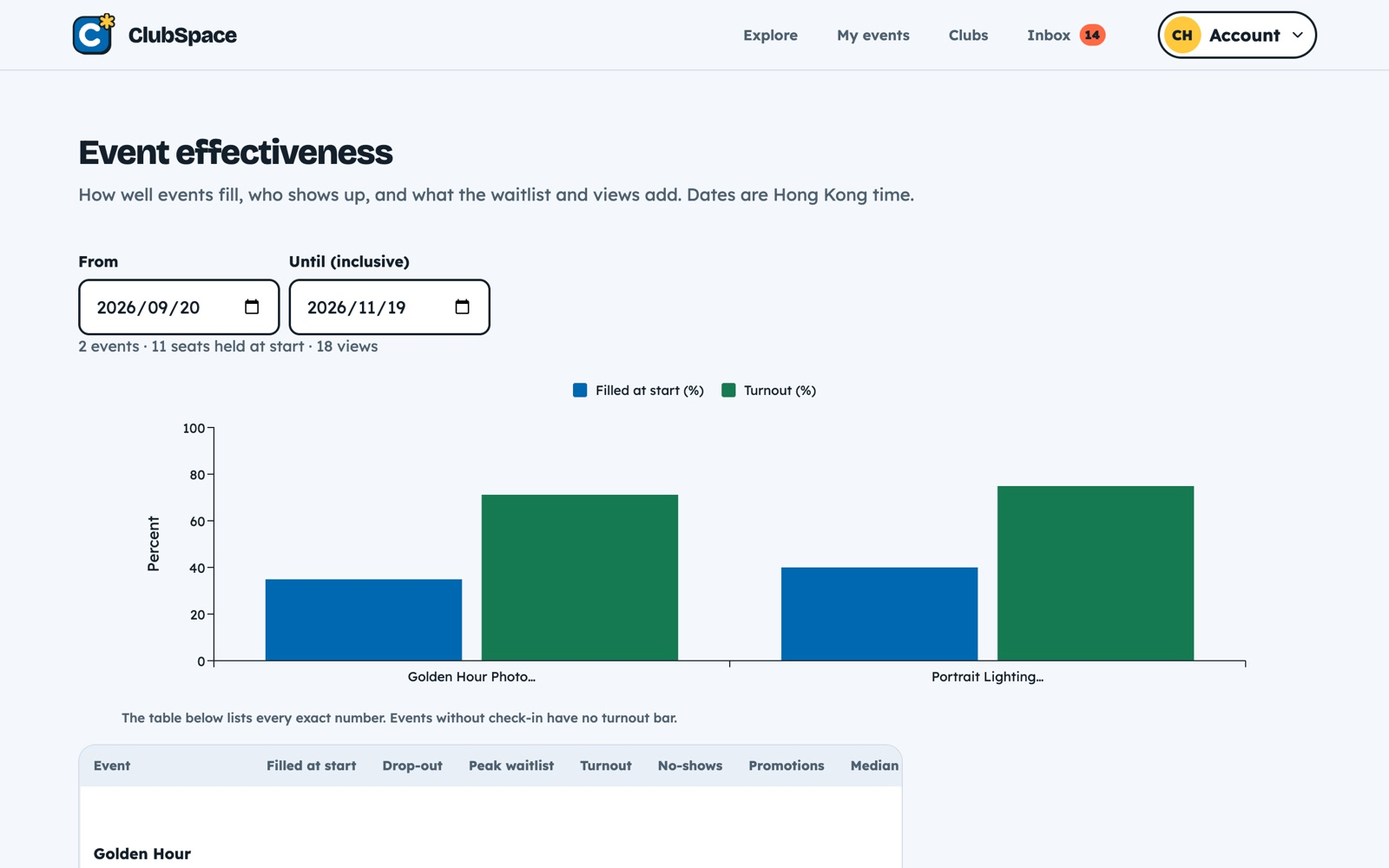
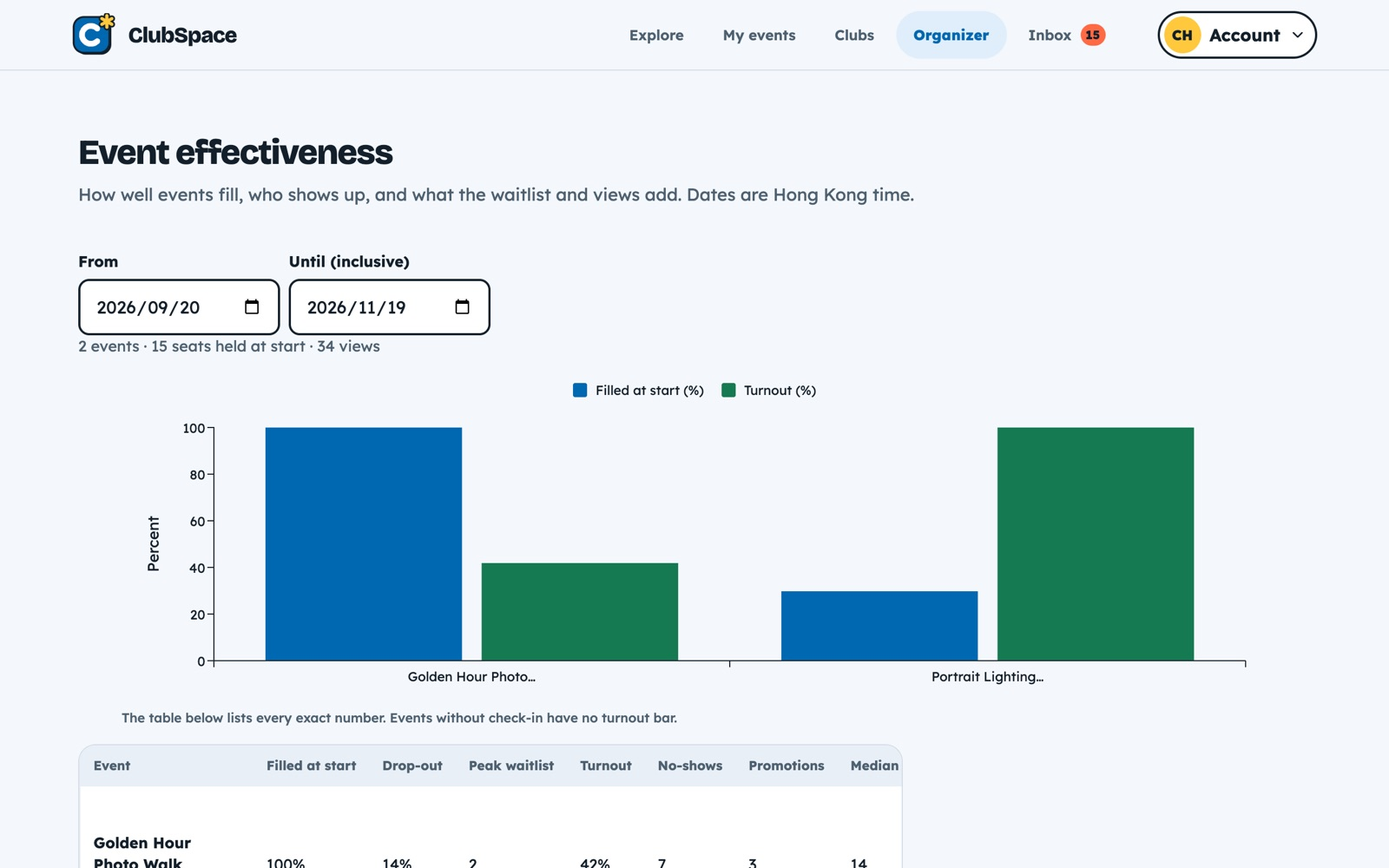
docs: update the final documentation for the latest features
Cover the six continuous slots (06:00-21:00), the venue schedule, venues
admins holding no club role, club icons and photos, committee removals with
president sign-off, join and quit activity, event page visits, and migrations
up to 023 (27 tables). Retake the screenshots from the current seed and add
the ER diagram's member_removal_requests table.

diff --git a/docs/final-report/final-documentation.html b/docs/final-report/final-documentation.html
@@ -115,7 +115,7 @@
     <li><span class="n">2</span>Feature list<span class="d">must-have, bonus and extra features; course requirements</span></li>
     <li><span class="n">3</span>Team task allocation<span class="d">who built what</span></li>
     <li><span class="n">4</span>System architecture<span class="d">containers, backend layers, design decisions</span></li>
-    <li><span class="n">5</span>Database design and ER diagram<span class="d">26 MySQL tables, keys, integrity rules</span></li>
+    <li><span class="n">5</span>Database design and ER diagram<span class="d">27 MySQL tables, keys, integrity rules</span></li>
     <li><span class="n">6</span>API documentation<span class="d">REST conventions, status codes, all endpoints</span></li>
     <li><span class="n">7</span>Key workflows and business logic<span class="d">lifecycle, waitlist, concurrency, real-time</span></li>
     <li><span class="n">8</span>User interface<span class="d">screenshots of the deployed app</span></li>
@@ -139,8 +139,8 @@
   <h3>Target users</h3>
   <div class="grid2" style="grid-template-columns:1fr 1fr 1fr">
     <div class="card"><h4>Students</h4><p>Discover events across clubs, see eligibility and remaining places, register or wait-list, check in, and get reminders.</p></div>
-    <div class="card"><h4>Club committee and president</h4><p>Request venues, draft and manage events, accept join requests, mark attendance and read reports. The president manages roles, signs off venue requests and publications, can hand over the presidency, and can undo club actions.</p></div>
-    <div class="card"><h4>Venue administrators</h4><p>Review pending venue requests across clubs. Availability is re-checked when they decide, and they cannot decide a request for a club they serve on.</p></div>
+    <div class="card"><h4>Club committee and president</h4><p>Request venues, draft and manage events, accept join requests, mark attendance and read reports. The president manages roles, signs off venue requests, publications and member removals, can hand over the presidency, and can undo club actions.</p></div>
+    <div class="card"><h4>Venue administrators</h4><p>Review pending venue requests across clubs and see every approved booking on a venue schedule. Availability is re-checked when they decide. They hold no club role and never register for events.</p></div>
   </div>
 
   <h3>Problem</h3>
@@ -150,8 +150,8 @@
   <table>
     <tr><th style="width:26%">Layer</th><th>Technology</th></tr>
     <tr><td>Frontend (SPA)</td><td>React 19, React Router 7, MUI 9 and MUI X Charts, built with Vite; responsive, with bottom tabs on phones.</td></tr>
-    <tr><td>Backend (REST API)</td><td>Node.js 22 and Express 5, a versioned REST API under <code>/api/v1</code>, express-session, Multer and sharp for event covers and club icons, and openid-client for Google sign-in.</td></tr>
-    <tr><td>Database</td><td>MySQL 8.4 accessed through mysql2, with a baseline schema and 16 ordered, checksummed migrations (up to <code>019_club_icons</code>).</td></tr>
+    <tr><td>Backend (REST API)</td><td>Node.js 22 and Express 5, a versioned REST API under <code>/api/v1</code>, express-session, Multer and sharp for event covers, club icons and club photos, and openid-client for Google sign-in.</td></tr>
+    <tr><td>Database</td><td>MySQL 8.4 accessed through mysql2, with a baseline schema and 20 ordered, checksummed migrations (up to <code>023_view_membership</code>).</td></tr>
     <tr><td>Asynchronous processing</td><td>Durable job queue (transactional outbox) with a separate worker; Server-Sent Events for live updates.</td></tr>
     <tr><td>Deployment</td><td>Docker Compose on the Ubuntu VM <code>c3322-pg19.cs.hku.hk</code>, with nginx serving HTTPS through a self-signed certificate.</td></tr>
   </table>
@@ -165,22 +165,25 @@
   <table>
     <tr><th style="width:24%">Area</th><th>What users can do</th><th style="width:14%">Scope</th></tr>
     <tr><td><strong>Accounts and profiles</strong></td><td>Register, sign in and out, and edit a persistent profile. Sessions are HttpOnly cookies stored in MySQL. Every change needs a CSRF token and a matching <code>Origin</code>. Logins are rate-limited.</td><td><span class="pill">Must-have</span></td></tr>
-    <tr><td><strong>Clubs and membership</strong></td><td>Browse clubs, request to join (the committee accepts or rejects), cancel a pending request, and leave. Belong to several clubs with club-specific roles: member, committee or president. Only one president per club is enforced in the database.</td><td><span class="pill">Must-have</span></td></tr>
-    <tr><td><strong>Venues and calendar</strong></td><td>Weekly venue calendars with three campus slots (10:00–12:00, 13:00–15:00, 16:00–18:00 HKT). Private bookings show only "Reserved". Pending requests do not reserve a slot.</td><td><span class="pill">Must-have</span></td></tr>
-    <tr><td><strong>Venue requests and approval</strong></td><td>Create an event draft and venue request together. The venue administrator approves or rejects with a reason. Overlaps are re-checked under row locks when approving, and administrators cannot decide their own club's request.</td><td><span class="pill">Must-have</span></td></tr>
+    <tr><td><strong>Clubs and membership</strong></td><td>Browse clubs, request to join (the committee accepts or rejects), cancel a pending request, and leave. Belong to several clubs with club-specific roles: member, committee or president. Only one president per club is enforced in the database. Venue administrators hold no club role, so they cannot join clubs or register for events.</td><td><span class="pill">Must-have</span></td></tr>
+    <tr><td><strong>Venues and calendar</strong></td><td>Weekly venue calendars with six back-to-back campus slots from 06:00 to 21:00 HKT (early morning, morning, afternoon, evening, night, and a full-day slot that blocks the whole day). Private bookings show only "Reserved". Pending requests do not reserve a slot.</td><td><span class="pill">Must-have</span></td></tr>
+    <tr><td><strong>Venue requests and approval</strong></td><td>Create an event draft and venue request together. The venue administrator approves or rejects with a reason. Overlaps are re-checked under row locks when approving. Venue administrators hold no club role, so they can never decide their own club's request, and the server still checks it.</td><td><span class="pill">Must-have</span></td></tr>
     <tr><td><strong>Event management</strong></td><td>Publish separately after approval. Edit with optimistic version checks. Cancel, which cancels the booking, registrations and pending requests in one transaction. Public or members-only visibility, and participant lists for the committee.</td><td><span class="pill">Must-have</span></td></tr>
     <tr><td><strong>Discovery and participation</strong></td><td>Search and filter events by date, club, visibility and tags, and see upcoming and past events. Register or withdraw subject to eligibility, deadline and capacity. A first-in, first-out waitlist promotes the next student automatically, and "My events" lists your registrations.</td><td><span class="pill">Must-have</span></td></tr>
     <tr><td><strong>Notifications and reminders</strong></td><td>Persistent in-app inbox for workflow changes (mark one as read or unread, or mark all as read), with event reminders and a daily 09:00 HKT club digest produced by a background worker. Retries are capped, and duplicates are prevented by unique keys.</td><td><span class="pill">Must-have</span></td></tr>
-    <tr><td><strong>Organiser reports</strong></td><td>Registration counts, daily registration actions and booked venue hours as charts, each with an equivalent data table.</td><td><span class="pill">Must-have</span></td></tr>
+    <tr><td><strong>Organiser reports</strong></td><td>Registration counts, daily registration actions and booked venue hours as charts, each with an equivalent data table. The activity report also shows event page visits by club members and non-members, and how many of them then clicked Join.</td><td><span class="pill">Must-have</span></td></tr>
     <tr><td><strong>Reliability and deployment</strong></td><td>Layered API, data-preserving migrations, consistent JSON errors with request IDs, concurrency tests for final-seat and conflicting approvals, and Docker Compose deployment.</td><td><span class="pill">Must-have</span></td></tr>
     <tr><td><strong>Google sign-in</strong></td><td>"Continue with Google" via OpenID Connect with backend token verification. New users complete their profile (student ID). Accounts are linked by verified email.</td><td><span class="pill bonus">Bonus</span></td></tr>
     <tr><td><strong>President sign-off</strong></td><td>Committee venue requests and publications wait for the president, who sends them on or returns them with a reason. The president can also transfer the presidency.</td><td><span class="pill extra">Extra</span></td></tr>
     <tr><td><strong>Live updates (SSE)</strong></td><td>Notifications, seat counts, waitlist changes and check-ins reach open pages within about two seconds over Server-Sent Events, without reloading.</td><td><span class="pill extra">Extra</span></td></tr>
     <tr><td><strong>Check-in and attendance</strong></td><td>A four-digit check-in code is shown during the event window, or the committee marks attendance by hand.</td><td><span class="pill extra">Extra</span></td></tr>
     <tr><td><strong>Effectiveness report</strong></td><td>Fill rate, turnout, drop-outs, no-shows, peak waitlist, promotions and view-to-join by source, with comparisons by tag, weekday and slot.</td><td><span class="pill extra">Extra</span></td></tr>
-    <tr><td><strong>Tags and covers</strong></td><td>Admin-curated campus tags (1–3 per event, at least one required) and club tags (0–5 per event), both filterable. Event cover images (JPEG or WebP up to 5 MB) are resized by sharp.</td><td><span class="pill extra">Extra</span></td></tr>
-    <tr><td><strong>Club action log</strong></td><td>The president sees a history of committee actions and can undo the ones that are safe to undo. Undo is refused once a later action affects the same people.</td><td><span class="pill extra">Extra</span></td></tr>
-    <tr><td><strong>Club icons</strong></td><td>The committee uploads, replaces or removes a club icon (JPEG, PNG or WebP, at least 128 × 128 px, up to 2 MB), checked in the browser and again on the server. sharp crops it to a square 256 px WebP. Icons appear on the Clubs page, and a club without one shows its colour badge with its first letter. The demo clubs get GPT-generated icons from the seed.</td><td><span class="pill extra">Extra</span></td></tr>
+    <tr><td><strong>Tags and covers</strong></td><td>Admin-curated campus tags (1–3 per event, at least one required) and club tags (0–5 per event), both filterable. Event cover images (JPEG or WebP up to 5 MB) are resized by sharp and shown whole on the event page, with tag pills and formatted descriptions.</td><td><span class="pill extra">Extra</span></td></tr>
+    <tr><td><strong>Club action log</strong></td><td>The committee and president can read a history of club actions. Only the president can undo the ones that are safe to undo, and undo is refused once a later action affects the same people.</td><td><span class="pill extra">Extra</span></td></tr>
+    <tr><td><strong>Club icons and photos</strong></td><td>The committee uploads, replaces or removes a club icon (JPEG, PNG or WebP, at least 128 × 128 px, up to 2 MB) and a club photo (at least 600 × 400 px, up to 5 MB, with alt text). Both are checked in the browser and again on the server, and sharp crops them to a 256 px square icon and 600 × 400 and 1200 × 800 photo renditions (WebP, metadata removed). The Clubs and Organizer pages show the photo as a banner with the icon on it, and a club without them shows its colour pattern and first letter. The demo clubs get GPT-generated icons and photos from the seed.</td><td><span class="pill extra">Extra</span></td></tr>
+    <tr><td><strong>Venue schedule</strong></td><td>Venue administrators see a week of approved bookings across every venue, grouped by Hong Kong day, with each event's state and registrations and a flag when its capacity is over the venue's. They can filter by venue and move week by week.</td><td><span class="pill extra">Extra</span></td></tr>
+    <tr><td><strong>Member removal sign-off</strong></td><td>A committee member who removes a plain member sends a request instead. The president is notified, and approves it or rejects it with a reason, from the Organizer page or the inbox. The president can still remove a member at once. The log records every step.</td><td><span class="pill extra">Extra</span></td></tr>
+    <tr><td><strong>Join and quit activity</strong></td><td>The committee sees each participant's club role (member, committee, president or non-member) and a history of who joined, quit, rejoined or was promoted from the waitlist, with a summary for the whole event.</td><td><span class="pill extra">Extra</span></td></tr>
     <tr><td><strong>Members-only join requests</strong></td><td>Students outside a club can request a place at a members-only event, and the committee decides.</td><td><span class="pill extra">Extra</span></td></tr>
     <tr><td><strong>Credits, privacy and terms</strong></td><td>An in-app <code>/credits</code> page as the guideline requires, plus public privacy policy and terms pages for the Google consent screen.</td><td><span class="pill extra">Extra</span></td></tr>
     <tr><td><strong>Usability fixes from UI/UX testing</strong></td><td>After a full UI/UX test round: sign-in returns to the page you asked for, a stale edit shows a "changed by someone else" notice, request forms keep typed details across a reload, the check-in roster is paginated, the Back button keeps Explore filters, and pages reflow up to 400% zoom.</td><td><span class="pill extra">Extra</span></td></tr>
@@ -214,7 +217,8 @@
         <li>Venue request → sign-off → approval → publish workflow, with row locking against double booking</li>
         <li>Registration, waitlist promotion and concurrency tests on real MySQL</li>
         <li>Durable job queue, reminder/digest worker and Server-Sent Events live updates</li>
-        <li>Migrations, reports, effectiveness, tags, check-in and cover uploads</li>
+        <li>Migrations, reports, effectiveness, tags, check-in, and cover, club icon and club photo uploads</li>
+        <li>Venue schedule, member-removal sign-off, join and quit activity, and the event page visits report</li>
         <li>Docker Compose deployment on PG19 over HTTPS, Google sign-in backend, demo seed, README</li>
       </ul></td>
     </tr>
@@ -286,7 +290,7 @@
   <text x="495" y="175" text-anchor="middle" class="s">sessions in MySQL · CSRF</text>
   <text x="495" y="190" text-anchor="middle" class="s">origin check · rate limits</text>
   <text x="495" y="205" text-anchor="middle" class="s">SSE hub (live updates)</text>
-  <text x="495" y="220" text-anchor="middle" class="s">cover and icon uploads (sharp)</text>
+  <text x="495" y="220" text-anchor="middle" class="s">image uploads (sharp)</text>
   <text x="495" y="235" text-anchor="middle" class="s">writes jobs to the outbox</text>
 
   <!-- worker -->
@@ -301,7 +305,7 @@
     <ellipse cx="678" cy="160" rx="52" ry="14" fill="#fdeceb" stroke="#c5483b" stroke-width="1.6"/>
     <text x="678" y="200" text-anchor="middle" class="t">db</text>
     <text x="678" y="216" text-anchor="middle" class="s">MySQL 8.4</text>
-    <text x="678" y="231" text-anchor="middle" class="s">26 tables</text>
+    <text x="678" y="231" text-anchor="middle" class="s">27 tables</text>
     <text x="678" y="246" text-anchor="middle" class="s">volume db_data</text>
     <text x="678" y="261" text-anchor="middle" class="s">3306 not published</text>
   </g>
@@ -318,7 +322,7 @@
   <rect x="200" y="300" width="160" height="34" rx="17" fill="#fff" stroke="#9aa3b2"/>
   <text x="280" y="321" text-anchor="middle" class="s">volume web_certs (TLS cert)</text>
   <rect x="410" y="396" width="170" height="34" rx="17" fill="#fff" stroke="#9aa3b2"/>
-  <text x="495" y="417" text-anchor="middle" class="s">volume cover_data (covers, icons)</text>
+  <text x="495" y="417" text-anchor="middle" class="s">volume cover_data (images)</text>
 
   <!-- arrows -->
   <path d="M150,206 H198" class="ln" marker-end="url(#ar)" marker-start="url(#ar)"/>
@@ -340,14 +344,14 @@
   <path d="M410,236 H394 V413 H408" class="ln"/>
   <text x="526" y="274" class="lbl">outbox jobs</text>
 </svg>
-    <figcaption>Figure 1. Deployment architecture. Arrows show request flow. The backend and worker share the database (including the outbox and notifications tables) and the image volume (event covers and club icons). <code>migrate</code> applies schema migrations before the API and worker start, and <code>seed</code> loads demo data into an empty database.</figcaption>
+    <figcaption>Figure 1. Deployment architecture. Arrows show request flow. The backend and worker share the database (including the outbox and notifications tables) and the image volume (event covers, club icons and club photos). <code>migrate</code> applies schema migrations before the API and worker start, and <code>seed</code> loads demo data into an empty database.</figcaption>
   </figure>
 
   <h3>Backend layering</h3>
   <table>
     <tr><th style="width:22%">Layer</th><th>Responsibility</th></tr>
     <tr><td>Middleware</td><td>Request ID, JSON body limit, session loading, CSRF token and <code>Origin</code> check on every change, and one error handler that turns errors into <code>{ error: { code, message, fields, request_id } }</code>.</td></tr>
-    <tr><td>Routers (<code>api_v1/</code>)</td><td>One router per area (auth, clubs, events, registration, engagement, reports, covers, club icons, notifications, Google). They validate input, check role and club permission, and pick the status code.</td></tr>
+    <tr><td>Routers (<code>api_v1/</code>)</td><td>One router per area (auth, clubs, club icons and photos, removal requests, events, registration, engagement, reports, covers, venue admin, notifications, Google). They validate input, check role and club permission, and pick the status code.</td></tr>
     <tr><td>Transactions and queries</td><td>Business rules run inside MySQL transactions with an explicit lock order (venue → club → bookings → event → participations), so concurrent requests cannot oversell seats or double-book a room. SQL lives in query/repository modules, kept apart from HTTP code.</td></tr>
     <tr><td>Jobs and live delivery</td><td>Side effects (notifications, reminders) are written to <code>notification_jobs</code> in the <em>same</em> transaction as the change (transactional outbox). The worker claims due jobs with lease tokens. The SSE hub follows the <code>notifications</code> and <code>live_signals</code> tables and pushes them to open connections.</td></tr>
   </table>
@@ -366,7 +370,7 @@
   <h2><span class="num">5</span>Database ER diagram</h2>
   <figure class="diagram" style="margin:0">
     <img src="er.svg" alt="Entity-relationship diagram of the core ClubSpace tables" style="max-height:150mm; width:auto; margin:0 auto;">
-    <figcaption>Figure 2. The 17 domain tables of the final MySQL 8.4 schema (baseline <code>schema.sql</code> plus migrations up to <code>019_club_icons</code>). Crow's-foot notation: a bar is "one" and a fork is "many". The two vertical buses carry the <code>event_id</code> and <code>user_id</code> foreign keys of the per-student tables. <strong>PK</strong> primary key, <strong>FK</strong> foreign key, <strong>UQ</strong> unique. Infrastructure tables are listed on the next page.</figcaption>
+    <figcaption>Figure 2. The 18 domain tables of the final MySQL 8.4 schema (baseline <code>schema.sql</code> plus migrations up to <code>023_view_membership</code>). Crow's-foot notation: a bar is "one" and a fork is "many". The two vertical buses carry the <code>event_id</code> and <code>user_id</code> foreign keys of the per-student tables. <strong>PK</strong> primary key, <strong>FK</strong> foreign key, <strong>UQ</strong> unique. Only the main foreign keys are drawn; <code>member_removal_requests</code> also references <code>users</code> three times. Infrastructure tables are listed on the next page.</figcaption>
   </figure>
 </section>
 
@@ -376,12 +380,13 @@
   <table>
     <tr><th style="width:27%">Table</th><th>Purpose</th></tr>
     <tr><td><code>users</code></td><td>Accounts with a platform role (<code>student</code> or <code>venue_admin</code>), a unique email and student ID, and an optional Google subject for linked sign-in.</td></tr>
-    <tr><td><code>clubs</code>, <code>memberships</code>, <code>club_join_requests</code></td><td>Clubs, each with an optional icon (<code>icon_key</code> names the WebP file on the image volume); the many-to-many link between users and clubs with a club role (<code>member</code>, <code>committee</code>, <code>president</code>); and requests to join, decided by the committee.</td></tr>
+    <tr><td><code>clubs</code>, <code>memberships</code>, <code>club_join_requests</code></td><td>Clubs, each with an optional icon and photo (<code>icon_key</code> and <code>photo_key</code> name the WebP files on the image volume); the many-to-many link between users and clubs with a club role (<code>member</code>, <code>committee</code>, <code>president</code>); and requests to join, decided by the committee.</td></tr>
+    <tr><td><code>member_removal_requests</code></td><td>A committee member's request to remove a plain member: status (<code>pending</code>, <code>approved</code>, <code>rejected</code>, <code>withdrawn</code> or <code>void</code>), a version that rejects stale decisions, and the president's decision and reason.</td></tr>
     <tr><td><code>venues</code>, <code>bookings</code></td><td>Rooms and time-slot requests. Status: <code>awaiting_president → pending → confirmed / rejected</code>, or <code>returned</code> / <code>cancelled</code>.</td></tr>
     <tr><td><code>events</code></td><td>Exactly one event per booking (unique <code>booking_id</code>; a composite foreign key keeps the club consistent). Holds capacity, visibility, registration deadline, check-in code and cover.</td></tr>
     <tr><td><code>participations</code>, <code>participation_history</code></td><td>Current registration state per student and event (<code>joined</code>, <code>waitlisted</code>, <code>left</code>, <code>cancelled</code> and others), plus an append-only history used by the reports.</td></tr>
     <tr><td><code>event_join_requests</code></td><td>Requests from non-members for members-only events.</td></tr>
-    <tr><td><code>event_attendance</code>, <code>event_views</code></td><td>Check-ins (by code or marked by the committee), and de-duplicated page views by source for the effectiveness report.</td></tr>
+    <tr><td><code>event_attendance</code>, <code>event_views</code></td><td>Check-ins (by code or marked by the committee), and de-duplicated page views by source and by the viewer's club role, for the effectiveness and activity reports.</td></tr>
     <tr><td><code>campus_tags</code>, <code>club_tags</code> and their link tables</td><td>Admin-curated campus tags and per-club tags, linked to events many-to-many.</td></tr>
     <tr><td><code>notifications</code></td><td>Each user's inbox. The unique <code>(user_id, dedup_key)</code> prevents duplicate deliveries.</td></tr>
     <tr><td><code>notification_jobs</code></td><td>Durable outbox and job queue: due time, attempts (at most 5), lease token and last error.</td></tr>
@@ -416,7 +421,7 @@
     <div class="card"><h4>HTTP status codes</h4>
       <table style="margin:0">
         <tr><td><code>200</code> <code>201</code> <code>204</code></td><td>OK · created · no body</td></tr>
-        <tr><td><code>202</code></td><td>Request queued for approval (join requests)</td></tr>
+        <tr><td><code>202</code></td><td>Request queued for approval (join requests, member removals)</td></tr>
         <tr><td><code>400</code> / <code>422</code></td><td>Malformed JSON / validation failed (per-field)</td></tr>
         <tr><td><code>401</code> / <code>403</code></td><td>Not signed in / not allowed, bad CSRF or origin</td></tr>
         <tr><td><code>404</code> / <code>409</code></td><td>Missing or hidden / conflict (slot taken, full, stale)</td></tr>
@@ -431,7 +436,7 @@
   <div class="keep"><h3>Authentication and profile</h3>
   <table>
     <tr><th style="width:11%">Method</th><th style="width:33%">Path</th><th style="width:12%">Access</th><th>Purpose</th></tr>
-    <tr><td><span class="m GET">GET</span></td><td><code>/config</code></td><td>Public</td><td>Feature flags, e.g. whether Google sign-in is enabled</td></tr>
+    <tr><td><span class="m GET">GET</span></td><td><code>/config</code></td><td>Public</td><td>Feature flags (e.g. whether Google sign-in is enabled) and the campus time slots</td></tr>
     <tr><td><span class="m GET">GET</span></td><td><code>/auth/csrf</code></td><td>Public</td><td>Issue the CSRF token for this session</td></tr>
     <tr><td><span class="m POST">POST</span></td><td><code>/auth/register</code></td><td>Public</td><td>Create an account and sign in (<code>201</code>)</td></tr>
     <tr><td><span class="m POST">POST</span></td><td><code>/auth/login</code></td><td>Public</td><td>Sign in with email and password (rate-limited)</td></tr>
@@ -444,18 +449,23 @@
   <div class="keep"><h3>Clubs, roles and tags</h3>
   <table>
     <tr><th style="width:11%">Method</th><th style="width:33%">Path</th><th style="width:12%">Access</th><th>Purpose</th></tr>
-    <tr><td><span class="m GET">GET</span></td><td><code>/clubs</code></td><td>User</td><td>Clubs with the caller's membership status and role</td></tr>
+    <tr><td><span class="m GET">GET</span></td><td><code>/clubs</code></td><td>User</td><td>Clubs with the caller's membership status and role, and each club's icon and photo</td></tr>
     <tr><td><span class="m GET">GET</span></td><td><code>/me/memberships</code></td><td>User</td><td>The caller's clubs and roles</td></tr>
     <tr><td><span class="m PUT">PUT</span> <span class="m DELETE">DELETE</span></td><td><code>/clubs/:id/membership</code></td><td>User</td><td>Request to join (<code>202</code>) or leave (<code>204</code>)</td></tr>
     <tr><td><span class="m GET">GET</span></td><td><code>/clubs/:id/join-requests</code></td><td>Committee</td><td>Pending join requests</td></tr>
     <tr><td><span class="m POST">POST</span></td><td><code>/clubs/:id/join-requests/:rid/review</code></td><td>Committee</td><td>Accept or reject a join request</td></tr>
     <tr><td><span class="m GET">GET</span></td><td><code>/clubs/:id/members</code></td><td>Committee</td><td>Members and roles</td></tr>
-    <tr><td><span class="m PATCH">PATCH</span> <span class="m DELETE">DELETE</span></td><td><code>/clubs/:id/members/:user_id</code></td><td>President / Committee</td><td>Change a role (president only), or remove a member</td></tr>
+    <tr><td><span class="m PATCH">PATCH</span> <span class="m DELETE">DELETE</span></td><td><code>/clubs/:id/members/:user_id</code></td><td>President / Committee</td><td>Change a role (president only), or remove a member: the president removes at once (<code>204</code>), a committee member's request waits for the president (<code>202</code>)</td></tr>
     <tr><td><span class="m DELETE">DELETE</span></td><td><code>/clubs/:id/committee</code></td><td>Committee</td><td>Step down from the committee</td></tr>
     <tr><td><span class="m POST">POST</span></td><td><code>/clubs/:id/presidency</code></td><td>President</td><td>Hand the presidency to a committee member</td></tr>
     <tr><td><span class="m PUT">PUT</span> <span class="m DELETE">DELETE</span></td><td><code>/clubs/:id/icon</code></td><td>Committee</td><td>Upload or replace the club icon (multipart, JPEG/PNG/WebP ≤ 2 MB), or remove it</td></tr>
     <tr><td><span class="m GET">GET</span></td><td><code>/clubs/:id/icon</code></td><td>User</td><td>The club icon as a 256 px WebP (cached, with an ETag)</td></tr>
-    <tr><td><span class="m GET">GET</span></td><td><code>/clubs/:id/actions</code></td><td>President</td><td>Club action log</td></tr>
+    <tr><td><span class="m PUT">PUT</span> <span class="m DELETE">DELETE</span></td><td><code>/clubs/:id/photo</code></td><td>Committee</td><td>Upload or replace the club photo (multipart: file and alt text; at least 600 × 400, up to 5 MB), or remove it</td></tr>
+    <tr><td><span class="m GET">GET</span></td><td><code>/clubs/:id/photo/:size</code></td><td>User</td><td>The club photo as a <code>card</code> (600 × 400) or <code>full</code> (1200 × 800) WebP</td></tr>
+    <tr><td><span class="m GET">GET</span></td><td><code>/clubs/:id/removal-requests</code></td><td>Committee</td><td>Member removal requests, oldest first</td></tr>
+    <tr><td><span class="m POST">POST</span></td><td><code>/clubs/:id/removal-requests/:rid/decision</code></td><td>President</td><td>Approve or reject (a reason is required to reject). A request for a member who has left closes as void (<code>409</code>)</td></tr>
+    <tr><td><span class="m DELETE">DELETE</span></td><td><code>/clubs/:id/removal-requests/:rid</code></td><td>Requester / President</td><td>Withdraw a pending request</td></tr>
+    <tr><td><span class="m GET">GET</span></td><td><code>/clubs/:id/actions</code></td><td>Committee</td><td>Club action log (read-only for the committee)</td></tr>
     <tr><td><span class="m POST">POST</span></td><td><code>/clubs/:id/actions/:aid/undo</code></td><td>President</td><td>Undo a club action, unless a later action affects the same people (<code>409</code>)</td></tr>
     <tr><td><span class="m GET">GET</span> <span class="m POST">POST</span></td><td><code>/tags</code></td><td>User / Admin</td><td>List campus tags, or create one (admin)</td></tr>
     <tr><td><span class="m PATCH">PATCH</span></td><td><code>/tags/:id</code></td><td>Admin</td><td>Rename or retire a campus tag</td></tr>
@@ -468,6 +478,7 @@
     <tr><th style="width:11%">Method</th><th style="width:33%">Path</th><th style="width:12%">Access</th><th>Purpose</th></tr>
     <tr><td><span class="m GET">GET</span></td><td><code>/venues</code></td><td>User</td><td>Active venues with capacity and location</td></tr>
     <tr><td><span class="m GET">GET</span></td><td><code>/venues/:id/calendar</code></td><td>User</td><td>Week of slots: available, reserved or past (private details hidden)</td></tr>
+    <tr><td><span class="m GET">GET</span></td><td><code>/admin/schedule</code></td><td>Admin</td><td>Approved bookings across all venues for up to 31 days, with each event's state and registration counts, and the number of pending requests</td></tr>
     <tr><td><span class="m GET">GET</span></td><td><code>/bookings</code></td><td>Admin</td><td>Venue requests waiting for a decision</td></tr>
     <tr><td><span class="m POST">POST</span></td><td><code>/bookings/:id/decision</code></td><td>Admin</td><td>Approve or reject with a reason. Re-checks overlap (<code>409</code>); <code>403</code> for own club</td></tr>
     <tr><td><span class="m POST">POST</span></td><td><code>/bookings/:id/signoff</code></td><td>President</td><td>Send a committee venue request to the venue team, or return it</td></tr>
@@ -478,7 +489,7 @@
   <table>
     <tr><th style="width:11%">Method</th><th style="width:33%">Path</th><th style="width:12%">Access</th><th>Purpose</th></tr>
     <tr><td><span class="m GET">GET</span></td><td><code>/events</code></td><td>User</td><td>Published events, paginated, with filters: <code>q</code>, <code>club_id</code>, <code>venue_id</code>, <code>visibility</code>, <code>phase</code> (upcoming/past), <code>from</code>/<code>to</code>, <code>tag</code></td></tr>
-    <tr><td><span class="m POST">POST</span></td><td><code>/events</code></td><td>Committee</td><td>Create an event draft and its venue request together (<code>201</code>); at least one campus tag is required</td></tr>
+    <tr><td><span class="m POST">POST</span></td><td><code>/events</code></td><td>Committee</td><td>Create an event draft and its venue request together (<code>201</code>); at least one campus tag is required. <code>slot_id</code> is one of <code>early_morning</code>, <code>morning</code>, <code>afternoon</code>, <code>evening</code>, <code>night</code>, <code>full_day</code></td></tr>
     <tr><td><span class="m GET">GET</span> <span class="m PATCH">PATCH</span></td><td><code>/events/:id</code></td><td>User / Committee</td><td>Event detail, or edit with a version check (<code>409</code> if stale)</td></tr>
     <tr><td><span class="m POST">POST</span></td><td><code>/events/:id/publish</code></td><td>Committee</td><td>Publish an approved draft. A committee member's request waits for the president</td></tr>
     <tr><td><span class="m POST">POST</span></td><td><code>/events/:id/signoff</code></td><td>President</td><td>Approve the publication, or return it to draft with a reason</td></tr>
@@ -493,15 +504,16 @@
     <tr><th style="width:11%">Method</th><th style="width:33%">Path</th><th style="width:12%">Access</th><th>Purpose</th></tr>
     <tr><td><span class="m POST">POST</span> <span class="m DELETE">DELETE</span></td><td><code>/events/:id/registration</code></td><td>User</td><td>Register, join the waitlist, or ask to join (members-only); withdraw</td></tr>
     <tr><td><span class="m GET">GET</span></td><td><code>/me/registrations</code></td><td>User</td><td>The caller's registrations and waitlist positions</td></tr>
-    <tr><td><span class="m GET">GET</span></td><td><code>/events/:id/participants</code></td><td>Committee</td><td>Participant list, with each person's check-in state</td></tr>
+    <tr><td><span class="m GET">GET</span></td><td><code>/events/:id/participants</code></td><td>Committee</td><td>Participant list with club role (member, committee, president or non-member) and check-in state</td></tr>
+    <tr><td><span class="m GET">GET</span></td><td><code>/events/:id/participation-history</code></td><td>Committee</td><td>Who joined, quit, rejoined or was promoted, newest first, filterable and paged, with a summary for the whole event</td></tr>
     <tr><td><span class="m GET">GET</span></td><td><code>/events/:id/join-requests</code></td><td>Committee</td><td>Requests for a members-only event</td></tr>
     <tr><td><span class="m POST">POST</span></td><td><code>/events/:id/join-requests/:user_id/decision</code></td><td>Committee</td><td>Accept or reject a request</td></tr>
     <tr><td><span class="m POST">POST</span></td><td><code>/events/:id/checkin</code></td><td>Committee</td><td>Open check-in (from 30 min before the start to 2 h after the end) and get the four-digit code</td></tr>
     <tr><td><span class="m POST">POST</span></td><td><code>/events/:id/attendance</code></td><td>User</td><td>Check in with the four-digit code</td></tr>
     <tr><td><span class="m GET">GET</span></td><td><code>/events/:id/attendance</code></td><td>Committee</td><td>Attendance list</td></tr>
     <tr><td><span class="m PUT">PUT</span> <span class="m DELETE">DELETE</span></td><td><code>/events/:id/attendance/:user_id</code></td><td>Committee</td><td>Mark or unmark a participant as present</td></tr>
-    <tr><td><span class="m POST">POST</span></td><td><code>/events/:id/views</code></td><td>User</td><td>Record a view and its source (<code>204</code>)</td></tr>
-    <tr><td><span class="m GET">GET</span></td><td><code>/clubs/:id/reports</code></td><td>Committee</td><td>Participant counts, daily registration actions, venue hours</td></tr>
+    <tr><td><span class="m POST">POST</span></td><td><code>/events/:id/views</code></td><td>User</td><td>Record a view, its source and the viewer's club role (<code>204</code>)</td></tr>
+    <tr><td><span class="m GET">GET</span></td><td><code>/clubs/:id/reports</code></td><td>Committee</td><td>Participant counts, event page visits (members and non-members), daily registration actions, venue hours</td></tr>
     <tr><td><span class="m GET">GET</span></td><td><code>/clubs/:id/reports/effectiveness</code></td><td>Committee</td><td>Fill rate, turnout, drop-out, waitlist and view-to-join</td></tr>
   </table></div>
 
@@ -579,6 +591,8 @@ Cookie: clubspace.sid=…   X-CSRF-Token: 6c1f…   Origin: https://c3322-pg19.c
     <div class="card"><h4>Concurrency</h4><p>All writers lock rows in one fixed order (venue → club → bookings → event → participations) to avoid deadlocks. Optimistic <code>version</code> columns reject stale edits. Database tests open independent MySQL connections to race two approvals for the same slot and two students for the last seat, and check that exactly one wins.</p></div>
     <div class="card"><h4>Background worker</h4><p>Every 5 s the worker claims due jobs using a lease token. It commits the claim before taking any domain lock. Every 60 s it scans for reminders and digests. Failed jobs back off and stop after 5 attempts. A heartbeat row shows that the worker is alive.</p></div>
     <div class="card"><h4>Real-time updates</h4><p>The SSE hub in the API process follows the shared <code>notifications</code> and <code>live_signals</code> tables, so rows written by the worker arrive the same way. Public hints ("event 10 changed") go to everyone, and committee-only hints go to that club. Pages then refetch through the normal authorised routes, so no private data travels in a hint.</p></div>
+    <div class="card"><h4>Member removal sign-off</h4><p>A committee member who removes a plain member creates a pending request (<code>202</code>). The president is notified and sees Approve and Reject in the inbox and on the Organizer page. Approving runs the removal as the president and logs it (undoable). Rejecting needs a reason. If the member left or was promoted in the meantime, the request closes as void. The president's own removal is immediate.</p></div>
+    <div class="card"><h4>Event page visits</h4><p>The views endpoint records the viewer's club role at the time of each view. The activity report counts each person once per event, classified by their first view as a club member or non-member, and counts a click on Join when a join, waitlist or members-only request follows that view. The club's own committee, president and venue administrators are left out, and the response holds counts only, never names.</p></div>
   </div>
 </section>
 
@@ -588,10 +602,14 @@ Cookie: clubspace.sid=…   X-CSRF-Token: 6c1f…   Origin: https://c3322-pg19.c
   <p class="lead">Screenshots of the final build with the demo data. The same code runs on <code>c3322-pg19.cs.hku.hk</code>.</p>
   <div class="shots">
     <figure><img src="img/01-events.jpg" alt=""><figcaption>Explore: search, quick filters and tags, with live seat counts on each card (student).</figcaption></figure>
-    <figure><img src="img/04-full-waitlist.jpg" alt=""><figcaption>Event detail: registration state, add to calendar, and leave event (member).</figcaption></figure>
-    <figure><img src="img/06-calendar.jpg" alt=""><figcaption>Venue calendar with the three campus slots. Pending requests do not reserve a slot (committee).</figcaption></figure>
+    <figure><img src="img/13-clubs.jpg" alt=""><figcaption>Clubs: each card shows the club photo with its icon, and the join state, such as a pending request that can be cancelled (student).</figcaption></figure>
+    <figure><img src="img/04-full-waitlist.jpg" alt=""><figcaption>Event detail: the whole cover photo, tag pills and the registration panel. A full event offers the waitlist (member).</figcaption></figure>
+    <figure><img src="img/06-calendar.jpg" alt=""><figcaption>Venue calendar with the six back-to-back campus slots from 06:00 to 21:00. Pending requests do not reserve a slot (committee).</figcaption></figure>
     <figure><img src="img/07-admin.jpg" alt=""><figcaption>Booking review: pending venue requests for the venue administrator.</figcaption></figure>
+    <figure><img src="img/12-admin-schedule.jpg" alt=""><figcaption>Venue schedule: approved bookings across every venue for a week, with each event's registrations (venue administrator).</figcaption></figure>
     <figure><img src="img/08-organizer.jpg" alt=""><figcaption>Organizer: the president's sign-off queue, with send or return actions.</figcaption></figure>
+    <figure><img src="img/15-people-activity.jpg" alt=""><figcaption>People tab of an event: who joined, quit, rejoined or was promoted, and each person's club role (committee).</figcaption></figure>
+    <figure><img src="img/10-activity-visits.jpg" alt=""><figcaption>Activity report: event page visits by club members and non-members, and how many then clicked Join.</figcaption></figure>
     <figure><img src="img/09-effectiveness.jpg" alt=""><figcaption>Effectiveness report: fill rate and turnout per event, with an exact-number table.</figcaption></figure>
     <figure><img src="img/05-inbox.jpg" alt=""><figcaption>Inbox: notifications arrive live over Server-Sent Events.</figcaption></figure>
     <figure style="display:grid;grid-template-columns:38% 1fr;gap:4mm;align-items:start"><img src="img/03-mobile-events.jpg" alt="" style="width:100%"><figcaption style="margin-top:0">Responsive layout on a phone (390 px wide): content stacks into one column and navigation moves to a bottom tab bar (Explore, My events, Clubs, Inbox).</figcaption></figure>
@@ -617,7 +635,7 @@ curl -fsS http://127.0.0.1/api/health # {"status":"ok"}</pre>
   </ul>
 
   <h3>Demo accounts</h3>
-  <p>On an empty database, the seed creates 5 clubs, 5 venues, 37 accounts and 25 events through the real API. These include 6 past events with check-ins (for the reports), 15 upcoming events (one full with a waitlist, members-only events with pending requests), one cancelled event and three still in the approval workflow. The seed also gives the five demo clubs their generated icons, and on an existing database it adds any missing icons without replacing uploaded ones. Every account uses the password <code>clubspacetest123</code>. The names are fictional and the addresses use the reserved <code>.example</code> domain.</p>
+  <p>On an empty database, the seed creates 5 clubs, 5 venues, 37 accounts and 25 events through the real API. These include 6 past events with check-ins (for the reports), 15 upcoming events (one full with a waitlist, members-only events with pending requests), one cancelled event and three still in the approval workflow. Members join, quit, rejoin and are promoted from the waitlist over several days, and about 400 event page views are recorded, so every club's reports have something to show. The seed also gives the demo events their covers and the five demo clubs their icons and photos. On an existing database it adds any missing icons and photos without replacing uploaded ones. Every account uses the password <code>clubspacetest123</code>. The names are fictional and the addresses use the reserved <code>.example</code> domain.</p>
   <p>The venue administrator is <code>admin@clubspace.example</code>. Each club has one president, two committee members and three members, named by the pattern below (replace <em>club</em> with <code>photo</code>, <code>film</code>, <code>debate</code>, <code>hiking</code> or <code>robotics</code>):</p>
   <table>
     <tr><th style="width:26%">Club</th><th>President</th><th>Committee</th><th>Members</th></tr>
@@ -627,17 +645,18 @@ curl -fsS http://127.0.0.1/api/health # {"status":"ok"}</pre>
   <p><strong>What to try with each role:</strong></p>
   <table>
     <tr><th style="width:38%">Sign in as</th><th>Try</th></tr>
-    <tr><td><code>admin@clubspace.example</code></td><td>Approve or reject Film Society's Animation Night venue request</td></tr>
-    <tr><td><code>president.photo@clubspace.example</code></td><td>Sign off the Exhibition Planning Meeting request, accept a join request, promote a member</td></tr>
+    <tr><td><code>admin@clubspace.example</code></td><td>Approve or reject Film Society's Animation Night venue request, then open Venue schedule for the week's approved bookings</td></tr>
+    <tr><td><code>president.photo@clubspace.example</code></td><td>Sign off the Exhibition Planning Meeting request, accept a join request, promote a member; open Golden Hour Photo Walk → People for join and quit activity, and Reports for event page visits</td></tr>
     <tr><td><code>president.debate@clubspace.example</code></td><td>Approve the publication of Debate Workshop: Rebuttals</td></tr>
     <tr><td><code>committee1.debate@clubspace.example</code></td><td>Create an event and request a venue; review members-only join requests; upload a new club icon under Organizer → Your clubs</td></tr>
+    <tr><td><code>committee1.photo@clubspace.example</code></td><td>Request the removal of a member under Club members and reports, then approve it as <code>president.photo</code></td></tr>
     <tr><td><code>member1.hiking@clubspace.example</code></td><td>Lion Rock Sunrise Hike: full, with a waitlist</td></tr>
     <tr><td><code>student1@clubspace.example</code></td><td>Register for a public event and watch the seat count update in a second browser</td></tr>
   </table>
 
   <h3>Testing and quality</h3>
   <ul>
-    <li><strong>59 automated test files.</strong> The backend has unit tests and 19 database test suites that run against a disposable MySQL 8.4 container (they refuse any database whose name lacks "test"). They cover migrations, authentication, governance, registration races, the job queue, live signals, covers, club icons and the demo seed. The frontend uses the Node test runner, plus Vitest and Testing Library for components.</li>
+    <li><strong>67 automated test files.</strong> The backend has unit tests and 23 database test suites that run against a disposable MySQL 8.4 container (they refuse any database whose name lacks "test"). They cover migrations, authentication, governance, registration races, the job queue, live signals, covers, club icons, member removal requests, the venue schedule, event page visits and the demo seed. The frontend uses the Node test runner, plus Vitest and Testing Library for components.</li>
     <li><strong>Static checks:</strong> Oxlint for the frontend, and a production build in the Docker image.</li>
     <li><strong>Query plans:</strong> <code>explain.db.test.js</code> checks that hot queries use their indexes. These include the booking overlap check, the admin review queue, waitlist order, job claims, reminder scans and the inbox.</li>
   </ul>
@@ -654,7 +673,7 @@ curl -fsS http://127.0.0.1/api/health # {"status":"ok"}</pre>
     <tr><td>Backend</td><td>Node.js and Express, express-session, mysql2, Multer, sharp, dotenv, openid-client</td></tr>
     <tr><td>Database and infrastructure</td><td>MySQL 8.4, Docker and nginx</td></tr>
     <tr><td>Tooling</td><td>Vite, Vitest and Testing Library, Oxlint</td></tr>
-    <tr><td>Demo images</td><td>Cover images for the fictional demo clubs and events, generated with OpenAI's GPT image generation (<code>backend-beta/db/demo-images/</code>), and the icons of the five demo clubs (<code>backend-beta/db/demo-icons/</code>), generated the same way. All demo people are fictional and use the reserved <code>.example</code> domain.</td></tr>
+    <tr><td>Demo images</td><td>Cover images for the fictional demo events and the demo club photos (<code>backend-beta/db/demo-images/</code>), and the icons of the five demo clubs (<code>backend-beta/db/demo-icons/</code>), all generated with OpenAI's GPT image generation. All demo people are fictional and use the reserved <code>.example</code> domain.</td></tr>
   </table>
 
   <h3>Repository map</h3>
